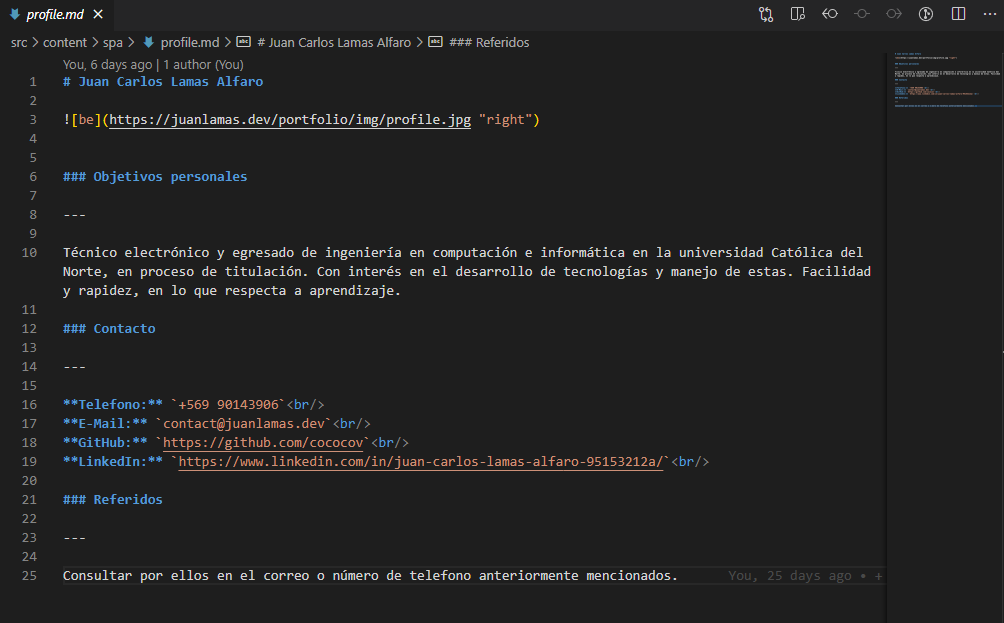
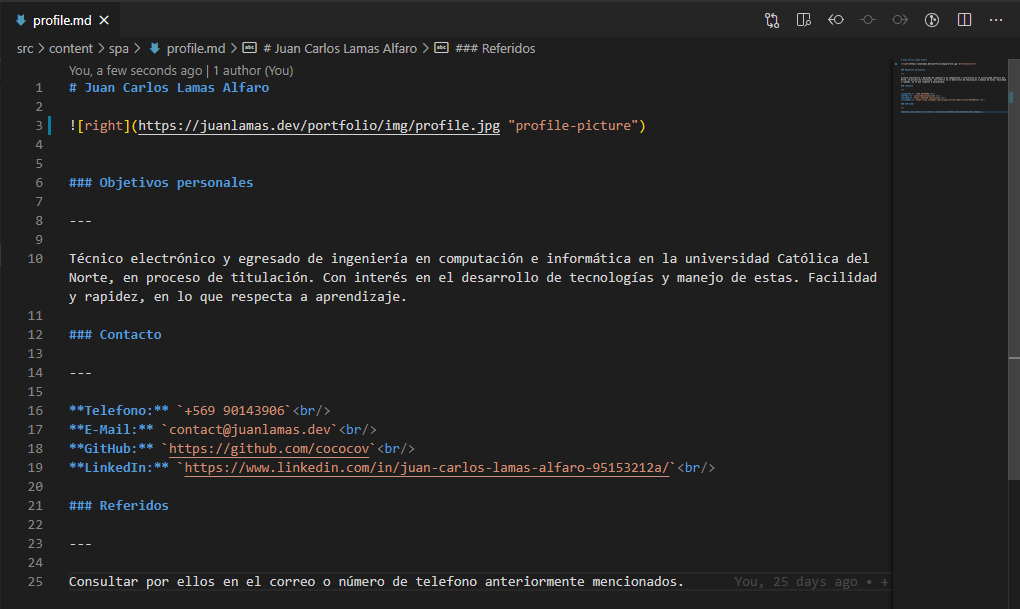
Updates

diff --git a/static/js/main.152a1f33.chunk.js b/static/js/main.152a1f33.chunk.js
@@ -1,0 +1,2 @@
+(this.webpackJsonpportfolio=this.webpackJsonpportfolio||[]).push([[0],{100:function(e,t,a){"use strict";a.r(t);var n=a(0),r=a.n(n),c=a(6),o=a.n(c),i=a(12),l=a.n(i),s=a(19),u=a(17),m=a(2),d=a(5),p="#333842",b="#282c34",f="#070709",h="#E8F3F8",g="#1d2026",x="#F36B21",j=function(){return window.innerWidth<400?window.innerWidth:window.innerWidth-310},k=a(40),E=a(51),v=a(43),w=(a(29),Object(d.a)((function(e){return{tab:{height:35,padding:0,paddingLeft:10,paddingRight:20,marginTop:-30,color:h,backgroundColor:b,cursor:"pointer"},selected:{height:35,padding:0,paddingLeft:10,paddingRight:20,marginTop:-30,color:h,backgroundColor:f,cursor:"pointer"}}}))((function(e){var t=e.ico,a=e.text,n=e.index,c=e.classes,o=e.selected,i=e.handleClick;return r.a.createElement("div",{className:Object(m.a)("",o?c.selected:c.tab),onClick:function(){return i(n)}},r.a.createElement(v.a,{className:Object(m.a)("text-left align-middle mt-1 ml-2"),variant:"inherit"},t,a))}))),O=Object(n.memo)(w),N=a(124),C=a(125),y=a(126),S=a(127),L=a(128),A=a(129),T=a(71),I=a(57),R=Object(n.createContext)(),P=function(e){var t=e.children,a=Object(n.useState)(0),c=Object(u.a)(a,2),o=c[0],i=c[1],l=Object(n.useState)(!1),s=Object(u.a)(l,2),m=s[0],d=s[1],p=Object(n.useState)(""),b=Object(u.a)(p,2),f=b[0],h=b[1],g=Object(n.useCallback)((function(e){i(4),h(e)}),[]),x=Object(n.useCallback)((function(e){i(e)}),[]),j=Object(n.useCallback)((function(){d(!0)}),[]),k=Object(n.useCallback)((function(){d(!1)}),[]);return r.a.createElement(R.Provider,{value:{selectedTab:o,isAboutOpen:m,selectedProject:f,handleChangeTab:x,handleClickAbout:j,handleCloseAbout:k,handleChangeProject:g}},t)},M=R,W=a(74),B=a(58),D=a.n(B),H=a(59),J=a.n(H),F=a(60),z=a.n(F),_=a(61),G=a.n(_),q=a(62),Q=a.n(q),U=a(63),V=a.n(U),X=a(64),Y=a.n(X),$=a(65),K=a.n($),Z=a(66),ee=a.n(Z),te=a(67),ae=a.n(te),ne=Object(n.createContext)(),re=function(){var e=Object(s.a)(l.a.mark((function e(t,a,n,r){var c,o,i;return l.a.wrap((function(e){for(;;)switch(e.prev=e.next){case 0:if(4===t||!n[t]){e.next=2;break}return e.abrupt("return",!1);case 2:if(4!==t||!n[t][a]){e.next=4;break}return e.abrupt("return",!1);case 4:return e.next=6,ce(t,a);case 6:return c=e.sent,e.next=9,c.text();case 9:o=e.sent,i=Object(W.a)(n),4!==t?i[t]=o:4===t&&(i[t][a]=o),r(i);case 13:case"end":return e.stop()}}),e)})));return function(t,a,n,r){return e.apply(this,arguments)}}(),ce=function(){var e=Object(s.a)(l.a.mark((function e(t,a){var n;return l.a.wrap((function(e){for(;;)switch(e.prev=e.next){case 0:n=null,e.t0=t,e.next=0===e.t0?4:1===e.t0?8:2===e.t0?12:3===e.t0?16:4===e.t0?20:22;break;case 4:return e.next=6,fetch(D.a);case 6:return n=e.sent,e.abrupt("break",25);case 8:return e.next=10,fetch(z.a);case 10:return n=e.sent,e.abrupt("break",25);case 12:return e.next=14,fetch(J.a);case 14:return n=e.sent,e.abrupt("break",25);case 16:return e.next=18,fetch(G.a);case 18:return n=e.sent,e.abrupt("break",25);case 20:return n=oe(a),e.abrupt("break",25);case 22:return e.next=24,fetch(ae.a);case 24:n=e.sent;case 25:return e.abrupt("return",n);case 26:case"end":return e.stop()}}),e)})));return function(t,a){return e.apply(this,arguments)}}(),oe=function(){var e=Object(s.a)(l.a.mark((function e(t){var a;return l.a.wrap((function(e){for(;;)switch(e.prev=e.next){case 0:a=null,e.t0=t,e.next="portfolio.jsx"===e.t0?4:"user-crud.jsx"===e.t0?8:"magiclife.jsx"===e.t0?12:"minesweeper.java"===e.t0?16:"rest-alarm.js"===e.t0?20:24;break;case 4:return e.next=6,fetch(V.a);case 6:return a=e.sent,e.abrupt("break",27);case 8:return e.next=10,fetch(Q.a);case 10:return a=e.sent,e.abrupt("break",27);case 12:return e.next=14,fetch(K.a);case 14:return a=e.sent,e.abrupt("break",27);case 16:return e.next=18,fetch(ee.a);case 18:return a=e.sent,e.abrupt("break",27);case 20:return e.next=22,fetch(Y.a);case 22:return a=e.sent,e.abrupt("break",27);case 24:return e.next=26,fetch(ae.a);case 26:a=e.sent;case 27:return e.abrupt("return",a);case 28:case"end":return e.stop()}}),e)})));return function(t){return e.apply(this,arguments)}}(),ie=function(e){var t=e.children,a=Object(n.useState)(["","","","",{}]),c=Object(u.a)(a,2),o=c[0],i=c[1],m=Object(n.useState)(""),d=Object(u.a)(m,2),p=d[0],b=d[1],f=Object(n.useContext)(M),h=f.selectedTab,g=f.selectedProject;return Object(n.useEffect)((function(){(function(){var e=Object(s.a)(l.a.mark((function e(){var t;return l.a.wrap((function(e){for(;;)switch(e.prev=e.next){case 0:return e.next=2,re(h,g,o,i);case 2:t=4===h&&o[h][g]?o[h][g]:o[h],b(t);case 4:case"end":return e.stop()}}),e)})));return function(){return e.apply(this,arguments)}})()()}),[h,g,o]),r.a.createElement(ne.Provider,{value:{content:o,selectedContent:p}},t)},le=ne,se=Object(d.a)((function(e){return{headerContainer:{display:"flex",flexDirection:"column",marginLeft:"auto"},header:{flexShrink:0,height:35,backgroundColor:b},subHeader:{flexShrink:0,height:25,backgroundColor:g}}}))((function(e){var t=e.width,a=e.classes,c=Object(n.useContext)(M),o=c.selectedTab,i=c.selectedProject,l=c.handleChangeTab;return r.a.createElement("div",{className:Object(m.a)("headerContainer",a.headerContainer),style:{width:t}},r.a.createElement(N.a,{className:Object(m.a)("header",a.header),position:"sticky"},r.a.createElement(C.a,{className:"pl-0"},r.a.createElement(O,{index:0,text:t>730?"Profile":"",selected:0===o,className:"border border-dark",handleClick:l,ico:Object(n.useMemo)((function(){return r.a.createElement(y.a,{className:"mr-2"})}),[])}),r.a.createElement(O,{index:1,text:t>730?"Experience":"",selected:1===o,className:"border border-dark",handleClick:l,ico:Object(n.useMemo)((function(){return r.a.createElement(S.a,{className:"mr-2"})}),[])}),r.a.createElement(O,{index:2,text:t>730?"Education":"",selected:2===o,className:"border border-dark",handleClick:l,ico:Object(n.useMemo)((function(){return r.a.createElement(L.a,{className:"mr-2"})}),[])}),r.a.createElement(O,{index:3,text:t>730?"Skills":"",selected:3===o,className:"border border-dark",handleClick:l,ico:Object(n.useMemo)((function(){return r.a.createElement(A.a,{className:"mr-2"})}),[])}),function(){if(i)return r.a.createElement(O,{index:4,text:t>730?I[i].name:"",selected:4===o,className:"border border-dark",handleClick:l,ico:r.a.createElement(T.a,{className:"mr-2 fa-lg",icon:["fab",I[i].ico]})})}())),r.a.createElement(N.a,{className:Object(m.a)("subHeader",a.subHeader),position:"sticky"},r.a.createElement(v.a,{variant:"caption",className:Object(m.a)("m-1 ml-3")},"src ",">"," portfolio ",">"," ",function(){switch(o){case 0:return"Profile";case 1:return"Experience";case 2:return"Education";case 3:return"Skills";default:return"Projects > ".concat(I[i].name)}}())))})),ue=Object(n.memo)(se),me=a(152),de=a(130),pe=a(131),be=a(132),fe=a(134),he=a(135),ge=a(136),xe=a(133),je=a(137),ke=a(138),Ee=a(28),ve=Object(d.a)((function(e){return{modal:{display:"flex",alignItems:"center",justifyContent:"center"},card:{color:h,backgroundColor:p,padding:5,outline:"none"},icon:{color:h,"&:focus":{outline:"none"}},close:{"&:focus":{outline:"none"}},item:{flex:2},copyright:{flex:1},mail:{flex:6,marginBottom:"2rem"},lineContainer:{display:"flex",alignItems:"flex-start"}}}))((function(e){var t=e.classes,a=Object(n.useContext)(M),c=a.isAboutOpen,o=a.handleCloseAbout,i=function(){var e=Object(s.a)(l.a.mark((function e(t){var a;return l.a.wrap((function(e){for(;;)switch(e.prev=e.next){case 0:a=null,e.t0=t,e.next="linkedin"===e.t0?4:"github"===e.t0?6:8;break;case 4:return a=Ee.c,e.abrupt("break",8);case 6:return a=Ee.b,e.abrupt("break",8);case 8:(a?window.open(a,"_blank"):window).focus();case 10:case"end":return e.stop()}}),e)})));return function(t){return e.apply(this,arguments)}}();return Object(n.useMemo)((function(){return r.a.createElement(me.a,{open:c,onClose:o,className:t.modal,disableAutoFocus:!0,disableEnforceFocus:!0},r.a.createElement(de.a,{className:t.card},r.a.createElement(pe.a,{title:"About",action:r.a.createElement(be.a,{className:t.close,onClick:o},r.a.createElement(xe.a,null))}),r.a.createElement(fe.a,null),r.a.createElement(he.a,null,r.a.createElement("div",{className:t.lineContainer},r.a.createElement(v.a,{variant:"body1",className:t.item},"E-mail:"),r.a.createElement(v.a,{component:"code",className:t.mail},"jclamas.95@gmail.com")),r.a.createElement("div",{className:t.lineContainer},r.a.createElement(v.a,{variant:"body1",className:t.copyright},"\xa9 Juan Carlos Lamas Alfaro. All rights reserved."))),r.a.createElement(ge.a,null,r.a.createElement(be.a,{className:t.icon,onClick:function(){return i("linkedin")}},r.a.createElement(je.a,null)),r.a.createElement(be.a,{className:t.icon,onClick:function(){return i("github")}},r.a.createElement(ke.a,null)))))}),[t,c,o])})),we=a(154),Oe=a(151),Ne=a(141),Ce=a(157),ye=a(139),Se=a(140),Le=Object(d.a)((function(e){return{drawer:{width:250,flexShrink:0},drawerPaper:{left:60,boxShadow:"1px 1px 1px rgba(0, 0, 0, 0.16), 1px 1px 1px rgba(0, 0, 0, 0.23)",backgroundColor:p,color:h,width:250},list:{textAlign:"left"},listItem:{"&:hover":{backgroundColor:f}},category:{boxShadow:"2px 2px 2px rgba(0, 0, 0, 0.16), 2px 2px 2px rgba(0, 0, 0, 0.23)",backgroundColor:p,color:h,height:30},nestedList:{width:230,marginLeft:20},nestedItem:{"&:hover":{backgroundColor:p}},box:{backgroundColor:b,color:h,paddingLeft:10,flexShrink:0},projects:{backgroundColor:b,color:h,flexShrink:0,height:"87%"},selectedItem:{backgroundColor:p}}}))((function(e){var t=e.classes,a=Object(n.useState)(!0),c=Object(u.a)(a,1)[0],o=Object(n.useContext)(M),i=o.selectedProject,l=o.handleChangeProject;return Object(n.useMemo)((function(){return r.a.createElement("div",{className:t.list,role:"presentation"},r.a.createElement(we.a,{open:c,anchor:"left",variant:"persistent",className:t.drawer,classes:{paper:Object(m.a)("Content",t.drawerPaper)}},r.a.createElement(Oe.a,{component:"span",className:t.box},r.a.createElement(v.a,{variant:"caption",className:Object(m.a)("p-0 mb-0 mt-0","ml-3")},"EXPLORER")),r.a.createElement("div",{className:Object(m.a)(t.category,"form-inline ml-3","p-0 mb-0 mt-0")},c?r.a.createElement(ye.a,null):r.a.createElement(Se.a,null),r.a.createElement(v.a,{className:Object(m.a)("ml-2","p-0 mb-0 mt-0")},"PROJECTS")),r.a.createElement(Oe.a,{component:"span",className:t.projects},r.a.createElement(Ne.a,{component:"nav",className:t.list},Object.keys(I).map((function(e,a){return r.a.createElement(Ce.a,{key:a,className:e===i?t.selectedItem:"",button:!0,onClick:function(){l(e)}},r.a.createElement(v.a,null,I[e].name))}))))))}),[t,c,i,l])})),Ae=Object(n.memo)(Le),Te=a(72),Ie=a(75),Re=a(142),Pe=a(76),Me=a(143),We=a(144),Be=a(145),De=a(146),He=a(147),Je=function(e){var t=e.children,a=e.className;return r.a.createElement("h1",{className:a},t)},Fe=function(e){var t=e.children,a=e.className;return r.a.createElement("h2",{className:a},t)},ze=function(e){var t=e.children,a=e.className;return r.a.createElement("h3",{className:a},t)},_e=function(e){var t=e.className;return r.a.createElement("hr",{className:t})},Ge=function(e){var t=e.children,a=e.className;return r.a.createElement("p",{className:a},t)},qe=function(e){var t=e.children,a=e.className;return r.a.createElement("ul",{className:a},t)},Qe=function(e){var t=e.children,a=e.className;return r.a.createElement("pre",{className:a},t)},Ue=function(e){var t=e.src,a=e.className,n=e.title,c=e.alt,o=e.classNameRight,i=e.classNameContent;return r.a.createElement("img",{src:t,alt:n,className:Object(m.a)(a,"content"===c?i:"","right"===c?o:"")})},Ve=function(e){var t=e.children,a=e.classes,n=t[0],c=t[1],o=n.props.children.props.children,i=c.props.children,l=[],s={},u=[];return o.map((function(e,t){return l[t]=e.props.children[0],s[l[t]]="",!0})),i.map((function(e,t){var a=e.props.children,n=Object(Ie.a)({},s);return Object.keys(s).map((function(e,t){return n[e]=a[t].props.children[0]})),u[t]=n,!0})),r.a.createElement(Re.a,{className:a.tableContainer,component:Pe.a},r.a.createElement(Me.a,{className:a.table,"aria-label":"simple table"},r.a.createElement(We.a,null,r.a.createElement(Be.a,{className:a.tableTitleBar},l.map((function(e,t){return r.a.createElement(De.a,{key:t,className:a.tableTitle},e)})))),r.a.createElement(He.a,null,u.map((function(e,t){return r.a.createElement(Be.a,{key:t,className:a.tableRow},Object.keys(e).map((function(t,n){return r.a.createElement(De.a,{scope:"row",key:"".concat(t,"-").concat(n),className:a.tableData},e[t])})))})))))},Xe=function(e){return{overrides:{h1:{component:Je,props:{className:e.h1}},h2:{component:Fe,props:{className:e.h2}},h3:{component:ze,props:{className:e.h3}},hr:{component:_e,props:{className:e.hr}},p:{component:Ge,props:{className:e.p}},ul:{component:qe,props:{className:e.ul}},pre:{component:Qe,props:{className:e.pre}},img:{component:Ue,props:{className:e.img,classNameRight:e.imgRight,classNameContent:e.imgContent}},table:{component:Ve,props:{classes:e}}}}},Ye=(a(97),Object(d.a)((function(e){return{container:{display:"flex",flexDirection:"row",height:"100vh",marginLeft:"auto"},content:{flex:1,color:h,overflowY:"scroll",paddingLeft:20,fontFamily:'"Roboto", "Helvetica", "Arial", sans-serif',paddingBottom:60},h1:{textAlign:"center",paddingTop:10,paddingBottom:10},h2:{paddingTop:5,paddingBottom:5},h3:{paddingTop:5,paddingBottom:5},hr:{backgroundColor:p,maxWidth:"50%",marginRight:"50%"},p:{fontSize:"1rem",padding:10},ul:{fontSize:"1rem",marginLeft:20},pre:{fontSize:"1rem",marginLeft:20,backgroundColor:p,padding:10,paddingLeft:15,paddingRight:15,maxWidth:"80%",width:"min-content",color:x},img:{borderRadius:4,maxWidth:250,maxHeigh:250},imgRight:{float:"right",marginRight:"5%",marginLeft:"5%",marginTop:30},imgContent:{maxWidth:"80%"},tableContainer:{width:"fit-content",maxWidth:"90%",marginLeft:"5%",backgroundColor:p},table:{width:"fit-content"},tableTitleBar:{},tableTitle:{color:h},tableRow:{},tableData:{color:h,minWidth:120}}}))((function(e){var t=e.classes,a=e.width,c=Object(n.useContext)(le).selectedContent;return Object(n.useMemo)((function(){return r.a.createElement("div",{style:{width:a},className:Object(m.a)("Container",t.container)},r.a.createElement("div",{className:Object(m.a)("Content",t.content)},r.a.createElement(Te.a,{options:Xe(t)},c)))}),[t,a,c])}))),$e=Object(n.memo)(Ye),Ke=a(148),Ze=Object(d.a)((function(e){return{drawer:{width:60,flexShrink:0},drawerPaper:{boxShadow:"1px 1px 1px rgba(0, 0, 0, 0.16), 1px 1px 1px rgba(0, 0, 0, 0.23)",backgroundColor:p,color:h,width:60},list:{width:250,textAlign:"left"},listInside:{flex:1,display:"flex",flexDirection:"column"},listItem:{"&:hover":{backgroundColor:f}},nestedList:{width:40,marginLeft:20},nestedItem:{"&:hover":{backgroundColor:p}},lateralIcon:{height:40,width:40,marginLeft:-5,marginTop:3,padding:0,justifyContent:"center"},about:{display:"flex",flexGrow:"inherit",justifyContent:"flex-end",textAlign:"center",flexDirection:"column"},aboutText:{marginLeft:"-0.5rem"}}}))((function(e){var t=e.classes,a=Object(n.useContext)(M).handleClickAbout,c=function(){var e=Object(s.a)(l.a.mark((function e(t){var a;return l.a.wrap((function(e){for(;;)switch(e.prev=e.next){case 0:a=null,e.t0=t,e.next="download"===e.t0?4:"linkedin"===e.t0?6:"github"===e.t0?8:10;break;case 4:return a="".concat("/portfolio").concat(Ee.a),e.abrupt("break",10);case 6:return a=Ee.c,e.abrupt("break",10);case 8:return a=Ee.b,e.abrupt("break",10);case 10:(a?window.open(a,"_blank"):window).focus();case 12:case"end":return e.stop()}}),e)})));return function(t){return e.apply(this,arguments)}}();return Object(n.useMemo)((function(){return r.a.createElement("div",{className:t.list,role:"presentation"},r.a.createElement(we.a,{className:t.drawer,variant:"persistent",anchor:"left",open:!0,classes:{paper:Object(m.a)("Content",t.drawerPaper)}},r.a.createElement(Ne.a,{className:t.listInside},r.a.createElement(Ce.a,{button:!0,key:"Download",title:"Download CV",onClick:function(){return c("download")}},r.a.createElement(Ke.a,{className:t.lateralIcon})),r.a.createElement(Ce.a,{button:!0,key:"LinkedIn",title:"LinkedIn",onClick:function(){return c("linkedin")}},r.a.createElement(je.a,{className:t.lateralIcon})),r.a.createElement(Ce.a,{button:!0,key:"GitHub",title:"GitHub",onClick:function(){return c("github")}},r.a.createElement(ke.a,{className:t.lateralIcon})),r.a.createElement("div",{className:t.about},r.a.createElement(Ce.a,{button:!0,key:"About",title:"About",onClick:a},r.a.createElement(v.a,{className:t.aboutText},"About"))))))}),[t,a])})),et=Object(n.memo)(Ze),tt=a(155),at=a(153),nt=a(149),rt=function(){var e=Object(n.useState)(!0),t=Object(u.a)(e,2),a=t[0],c=t[1];return r.a.createElement(tt.a,{autoHideDuration:8e3,key:"underConstructionSnackbar",open:a,onClose:function(){c(!1)},anchorOrigin:{vertical:"top",horizontal:"center"}},r.a.createElement(at.a,{severity:"info"},r.a.createElement(nt.a,null,"Informaci\xf3n"),"Esta p\xe1gina a\xfan est\xe1 en construcci\xf3n, por lo que puede haber secciones sin contenido o con contenido a la mitad."))},ct=(a(98),Object(d.a)({app:{minWidth:"100%",position:"absolute",overflow:"hidden"},content:{padding:10}})((function(e){var t=e.classes,a=Object(n.useState)((function(){return j()})),c=Object(u.a)(a,2),o=c[0],i=c[1];Object(n.useEffect)((function(){k.b.add([E.a,E.c,E.b])})),Object(n.useEffect)((function(){window.addEventListener("resize",d),d()}),[]);var d=function(){var e=Object(s.a)(l.a.mark((function e(){return l.a.wrap((function(e){for(;;)switch(e.prev=e.next){case 0:i(j());case 1:case"end":return e.stop()}}),e)})));return function(){return e.apply(this,arguments)}}();return r.a.createElement(P,null,r.a.createElement(rt,null),r.a.createElement(ve,null),r.a.createElement(ue,{width:o}),r.a.createElement("div",{className:Object(m.a)("App",t.app)},r.a.createElement(et,null),r.a.createElement(Ae,null),r.a.createElement(ie,null,r.a.createElement($e,{width:o}))))})));Boolean("localhost"===window.location.hostname||"[::1]"===window.location.hostname||window.location.hostname.match(/^127(?:\.(?:25[0-5]|2[0-4][0-9]|[01]?[0-9][0-9]?)){3}$/));a(99);o.a.render(r.a.createElement(n.StrictMode,null,r.a.createElement(ct,null)),document.getElementById("root")),"serviceWorker"in navigator&&navigator.serviceWorker.ready.then((function(e){e.unregister()}))},28:function(e){e.exports=JSON.parse('{"a":"/docs/cv_Juan_Lamas.pdf","c":"https://www.linkedin.com/in/juan-carlos-lamas-alfaro-95153212a/","b":"https://github.com/cococov"}')},57:function(e){e.exports=JSON.parse('{"portfolio.jsx":{"uri":"project/portfoliojsx","name":"portfolio.jsx","title":"portfolio","language":"javaScript","ico":"react"},"user-crud.jsx":{"uri":"project/usercrudjsx","name":"userCrud.jsx","title":"User CRUD - SQLite and MySQL Sync","language":"javaScript","ico":"react"},"magiclife.jsx":{"uri":"project/magiclifejsx","name":"magiclife.jsx","title":"Magic Life","language":"javaScript","ico":"react"},"rest-alarm.js":{"uri":"project/restalarmjs","name":"rest-alarm.js","title":"Rest Alarm","language":"javaScript","ico":"js-square"},"minesweeper.java":{"uri":"project/minesweepeerjava","name":"minesweeper.java","title":"Minesweeper (Buscaminas)","language":"Java","ico":"java"},"something.py":{"uri":"project/somethingpy","name":"something.py","title":"Something","language":"Something","ico":"python"}}')},58:function(e,t,a){e.exports=a.p+"static/media/profile.3cbe7f5e.md"},59:function(e,t,a){e.exports=a.p+"static/media/education.f17e8b79.md"},60:function(e,t,a){e.exports=a.p+"static/media/experience.a9782ec0.md"},61:function(e,t,a){e.exports=a.p+"static/media/skills.f1245e71.md"},62:function(e,t,a){e.exports=a.p+"static/media/usercrud.c1f7ed9d.md"},63:function(e,t,a){e.exports=a.p+"static/media/portfolio.0e1e4ce7.md"},64:function(e,t,a){e.exports=a.p+"static/media/restalarm.83dbd42c.md"},65:function(e,t,a){e.exports=a.p+"static/media/magiclife.7ac4bd4e.md"},66:function(e,t,a){e.exports=a.p+"static/media/minesweeper.0c225492.md"},67:function(e,t,a){e.exports=a.p+"static/media/error404.c361ca1d.md"},84:function(e,t,a){e.exports=a(100)},97:function(e,t,a){},98:function(e,t,a){},99:function(e,t,a){}},[[84,1,2]]]);
+//# sourceMappingURL=main.152a1f33.chunk.js.map

diff --git a/index.html b/index.html
@@ -1,1 +1,1 @@
-<!doctype html><html lang="en"><head><meta charset="utf-8"/><link rel="shortcut icon" href="/portfolio/favicon.ico"/><meta name="viewport" content="width=device-width,initial-scale=1"/><meta name="theme-color" content="#000000"/><meta property="og:image" content="/portfolio/img/portfoliopreview.png"><meta name="description" content="Portafolio profesional, para demostrar mis habilidades como desarrollador, en donde emulando la interfaz gráfica de VsCode muestro una serie de proyectos personales, además de mi información de contacto, educación y experiencia."/><meta name="keywords" content="Juan, Carlos, Lamas, Alfaro, React, Portfolio, Portafolio"><meta name="author" content="Juan Carlos Lamas Alfaro"><link rel="apple-touch-icon" href="logo192.png"/><link rel="manifest" href="/portfolio/manifest.json"/><title>Juan Carlos Lamas Alfaro</title><link href="https://fonts.googleapis.com/css?family=Roboto:300,400,500,700&display=swap"/><link href="https://fonts.googleapis.com/icon?family=Material+Icons"/><link href="/css/bootstrap.min.css"/><link href="/fontawesome/css/all.min.css"/><link href="/portfolio/static/css/2.af3c1da9.chunk.css" rel="stylesheet"><link href="/portfolio/static/css/main.35229cc0.chunk.css" rel="stylesheet"></head><body style="background-color:#1d2026"><noscript><div class="App jss1" style="background-color:#1d2026;color:#e8f3f8"><div class="Container jss140"><div class="Content jss141"><div><h1 class="jss142" style="text-align:center">Juan Carlos Lamas Alfaro</h1><p class="jss146" style="text-align:center"><img src="/portfolio/img/profile.jpg" alt="profile" class="jss150 jss149"></p><h3 class="jss144">Objetivos personales</h3><hr class="jss145"><p class="jss146">Técnico electrónico y actual estudiante de ingeniería en computación e informática en la universidad Católica del Norte, en proceso de titulación. Con interés en el desarrollo de tecnologías y manejo de estas. Facilidad y rapidez, en lo que respecta a aprendizaje.</p><h3 class="jss144">Contacto</h3><hr class="jss145"><p class="jss146"><strong>Telefono:</strong> <code>+569 90143906</code><br><strong>E-Mail:</strong> <code>jclamas.95@gmail.com</code><br><strong>GitHub:</strong> <code>https://github.com/cococov</code><br><strong>LinkedIn:</strong> <code>https://www.linkedin.com/in/juan-carlos-lamas-alfaro-95153212a/</code><br></p></div><div style="text-align:-webkit-center"><div style="background-color:red;width:fit-content;padding:1rem;color:#0b0004"><h1>¡ALERTA!</h1><h2>Necesitas JavaScript para ver el contenido de esta página</h2></div><p>© Juan Carlos Lamas Alfaro. All rights reserved.</p><p></p></div></div></div></div></noscript><div id="root"></div><script>!function(e){function r(r){for(var n,l,f=r[0],i=r[1],p=r[2],c=0,s=[];c<f.length;c++)l=f[c],Object.prototype.hasOwnProperty.call(o,l)&&o[l]&&s.push(o[l][0]),o[l]=0;for(n in i)Object.prototype.hasOwnProperty.call(i,n)&&(e[n]=i[n]);for(a&&a(r);s.length;)s.shift()();return u.push.apply(u,p||[]),t()}function t(){for(var e,r=0;r<u.length;r++){for(var t=u[r],n=!0,f=1;f<t.length;f++){var i=t[f];0!==o[i]&&(n=!1)}n&&(u.splice(r--,1),e=l(l.s=t[0]))}return e}var n={},o={1:0},u=[];function l(r){if(n[r])return n[r].exports;var t=n[r]={i:r,l:!1,exports:{}};return e[r].call(t.exports,t,t.exports,l),t.l=!0,t.exports}l.m=e,l.c=n,l.d=function(e,r,t){l.o(e,r)||Object.defineProperty(e,r,{enumerable:!0,get:t})},l.r=function(e){"undefined"!=typeof Symbol&&Symbol.toStringTag&&Object.defineProperty(e,Symbol.toStringTag,{value:"Module"}),Object.defineProperty(e,"__esModule",{value:!0})},l.t=function(e,r){if(1&r&&(e=l(e)),8&r)return e;if(4&r&&"object"==typeof e&&e&&e.__esModule)return e;var t=Object.create(null);if(l.r(t),Object.defineProperty(t,"default",{enumerable:!0,value:e}),2&r&&"string"!=typeof e)for(var n in e)l.d(t,n,function(r){return e[r]}.bind(null,n));return t},l.n=function(e){var r=e&&e.__esModule?function(){return e.default}:function(){return e};return l.d(r,"a",r),r},l.o=function(e,r){return Object.prototype.hasOwnProperty.call(e,r)},l.p="/portfolio/";var f=this.webpackJsonpportfolio=this.webpackJsonpportfolio||[],i=f.push.bind(f);f.push=r,f=f.slice();for(var p=0;p<f.length;p++)r(f[p]);var a=i;t()}([])</script><script src="/portfolio/static/js/2.4a1aed06.chunk.js"></script><script src="/portfolio/static/js/main.5f57ab37.chunk.js"></script></body></html>
+<!doctype html><html lang="en"><head><meta charset="utf-8"/><link rel="shortcut icon" href="/portfolio/favicon.ico"/><meta name="viewport" content="width=device-width,initial-scale=1"/><meta name="theme-color" content="#000000"/><meta property="og:image" content="/portfolio/img/portfoliopreview.png"><meta name="description" content="Portafolio profesional, para demostrar mis habilidades como desarrollador, en donde emulando la interfaz gráfica de VsCode muestro una serie de proyectos personales, además de mi información de contacto, educación y experiencia."/><meta name="keywords" content="Juan, Carlos, Lamas, Alfaro, React, Portfolio, Portafolio"><meta name="author" content="Juan Carlos Lamas Alfaro"><link rel="apple-touch-icon" href="logo192.png"/><link rel="manifest" href="/portfolio/manifest.json"/><title>Juan Carlos Lamas Alfaro</title><link href="https://fonts.googleapis.com/css?family=Roboto:300,400,500,700&display=swap"/><link href="https://fonts.googleapis.com/icon?family=Material+Icons"/><link href="/css/bootstrap.min.css"/><link href="/fontawesome/css/all.min.css"/><link href="/portfolio/static/css/2.af3c1da9.chunk.css" rel="stylesheet"><link href="/portfolio/static/css/main.6c694089.chunk.css" rel="stylesheet"></head><body style="background-color:#1d2026"><noscript><div class="App jss1" style="background-color:#1d2026;color:#e8f3f8"><div class="Container jss140"><div class="Content jss141"><div><h1 class="jss142" style="text-align:center">Juan Carlos Lamas Alfaro</h1><p class="jss146" style="text-align:center"><img src="/portfolio/img/profile.jpg" alt="profile" class="jss150 jss149"></p><h3 class="jss144">Objetivos personales</h3><hr class="jss145"><p class="jss146">Técnico electrónico y actual estudiante de ingeniería en computación e informática en la universidad Católica del Norte, en proceso de titulación. Con interés en el desarrollo de tecnologías y manejo de estas. Facilidad y rapidez, en lo que respecta a aprendizaje.</p><h3 class="jss144">Contacto</h3><hr class="jss145"><p class="jss146"><strong>Telefono:</strong> <code>+569 90143906</code><br><strong>E-Mail:</strong> <code>jclamas.95@gmail.com</code><br><strong>GitHub:</strong> <code>https://github.com/cococov</code><br><strong>LinkedIn:</strong> <code>https://www.linkedin.com/in/juan-carlos-lamas-alfaro-95153212a/</code><br></p></div><div style="text-align:-webkit-center"><div style="background-color:red;width:fit-content;padding:1rem;color:#0b0004"><h1>¡ALERTA!</h1><h2>Necesitas JavaScript para ver el contenido de esta página</h2></div><p>© Juan Carlos Lamas Alfaro. All rights reserved.</p><p></p></div></div></div></div></noscript><div id="root"></div><script>!function(e){function r(r){for(var n,l,f=r[0],i=r[1],p=r[2],c=0,s=[];c<f.length;c++)l=f[c],Object.prototype.hasOwnProperty.call(o,l)&&o[l]&&s.push(o[l][0]),o[l]=0;for(n in i)Object.prototype.hasOwnProperty.call(i,n)&&(e[n]=i[n]);for(a&&a(r);s.length;)s.shift()();return u.push.apply(u,p||[]),t()}function t(){for(var e,r=0;r<u.length;r++){for(var t=u[r],n=!0,f=1;f<t.length;f++){var i=t[f];0!==o[i]&&(n=!1)}n&&(u.splice(r--,1),e=l(l.s=t[0]))}return e}var n={},o={1:0},u=[];function l(r){if(n[r])return n[r].exports;var t=n[r]={i:r,l:!1,exports:{}};return e[r].call(t.exports,t,t.exports,l),t.l=!0,t.exports}l.m=e,l.c=n,l.d=function(e,r,t){l.o(e,r)||Object.defineProperty(e,r,{enumerable:!0,get:t})},l.r=function(e){"undefined"!=typeof Symbol&&Symbol.toStringTag&&Object.defineProperty(e,Symbol.toStringTag,{value:"Module"}),Object.defineProperty(e,"__esModule",{value:!0})},l.t=function(e,r){if(1&r&&(e=l(e)),8&r)return e;if(4&r&&"object"==typeof e&&e&&e.__esModule)return e;var t=Object.create(null);if(l.r(t),Object.defineProperty(t,"default",{enumerable:!0,value:e}),2&r&&"string"!=typeof e)for(var n in e)l.d(t,n,function(r){return e[r]}.bind(null,n));return t},l.n=function(e){var r=e&&e.__esModule?function(){return e.default}:function(){return e};return l.d(r,"a",r),r},l.o=function(e,r){return Object.prototype.hasOwnProperty.call(e,r)},l.p="/portfolio/";var f=this.webpackJsonpportfolio=this.webpackJsonpportfolio||[],i=f.push.bind(f);f.push=r,f=f.slice();for(var p=0;p<f.length;p++)r(f[p]);var a=i;t()}([])</script><script src="/portfolio/static/js/2.4a1aed06.chunk.js"></script><script src="/portfolio/static/js/main.152a1f33.chunk.js"></script></body></html>

diff --git a/precache-manifest.95a58dd8aaabd1fd369c5806c383ec4d.js b/precache-manifest.95a58dd8aaabd1fd369c5806c383ec4d.js
@@ -1,6 +1,6 @@
 self.__precacheManifest = (self.__precacheManifest || []).concat([
   {
-    "revision": "37012b1b1fe2b8bbc86659d01b200704",
+    "revision": "fc3d7fb2464cf32366f6e6caaf7a6dc6",
     "url": "/portfolio/index.html"
   },
   {
@@ -8,8 +8,8 @@ self.__precacheManifest = (self.__precacheManifest || []).concat([
     "url": "/portfolio/static/css/2.af3c1da9.chunk.css"
   },
   {
-    "revision": "37cbd5fb04068935b677",
-    "url": "/portfolio/static/css/main.35229cc0.chunk.css"
+    "revision": "82caa4e5fa5e2f68bb90",
+    "url": "/portfolio/static/css/main.6c694089.chunk.css"
   },
   {
     "revision": "5a27b75e86179168ba5c",
@@ -20,16 +20,16 @@ self.__precacheManifest = (self.__precacheManifest || []).concat([
     "url": "/portfolio/static/js/2.4a1aed06.chunk.js.LICENSE.txt"
   },
   {
-    "revision": "37cbd5fb04068935b677",
-    "url": "/portfolio/static/js/main.5f57ab37.chunk.js"
+    "revision": "82caa4e5fa5e2f68bb90",
+    "url": "/portfolio/static/js/main.152a1f33.chunk.js"
   },
   {
     "revision": "88fbd3d397ae3690d5f2",
     "url": "/portfolio/static/js/runtime-main.fb1b3dac.js"
   },
   {
-    "revision": "107244b6ad89832ee7a15e1884948aec",
-    "url": "/portfolio/static/media/education.107244b6.md"
+    "revision": "f17e8b792a8bdaebd1a50b5b1b5806b8",
+    "url": "/portfolio/static/media/education.f17e8b79.md"
   },
   {
     "revision": "c361ca1d1fed18032962252a0c88ec64",
@@ -48,12 +48,12 @@ self.__precacheManifest = (self.__precacheManifest || []).concat([
     "url": "/portfolio/static/media/minesweeper.0c225492.md"
   },
   {
-    "revision": "f8c4ec527affb01193855f9083b50f00",
-    "url": "/portfolio/static/media/portfolio.f8c4ec52.md"
+    "revision": "0e1e4ce79509b97a0561b7c88d080a0b",
+    "url": "/portfolio/static/media/portfolio.0e1e4ce7.md"
   },
   {
-    "revision": "35361503be5d3af7c13bfd93fed61e21",
-    "url": "/portfolio/static/media/profile.35361503.md"
+    "revision": "3cbe7f5ef1e2be5ca370868e7eeb9773",
+    "url": "/portfolio/static/media/profile.3cbe7f5e.md"
   },
   {
     "revision": "83dbd42cc042f93f960b00f7215fcf55",

diff --git a/static/css/main.6c694089.chunk.css b/static/css/main.6c694089.chunk.css
@@ -1,0 +1,2 @@
+.box{background-color:#333842;max-width:60%;padding-left:1rem;padding-right:1rem;padding-top:1rem;margin-right:1rem;border-radius:4px}.box ul{margin-bottom:0!important;margin-left:0!important}.no-has-paraph{padding-bottom:1rem!important}.list-super-index{margin-bottom:-.5rem!important}.end,.img-content-div{margin-bottom:1rem}.img-content-div{text-align:center}@media (max-width:1900px){.box{max-width:80%}}@media (max-width:1500px){.box{max-width:100%}}.App{background-color:#1d2026;flex-direction:column;align-items:center;justify-content:center;font-size:calc(10px + 2vmin);color:#fff;min-height:100%;margin-bottom:-60px}body{margin:0;font-family:-apple-system,BlinkMacSystemFont,"Segoe UI","Roboto","Oxygen","Ubuntu","Cantarell","Fira Sans","Droid Sans","Helvetica Neue",sans-serif;-webkit-font-smoothing:antialiased;-moz-osx-font-smoothing:grayscale}code{font-family:source-code-pro,Menlo,Monaco,Consolas,"Courier New",monospace}html{--scrollbarBG:#1d2026;--thumbBG:#333842;overflow:hidden}.Content::-webkit-scrollbar{width:15px}.Content{scrollbar-width:thin;scrollbar-color:#333842 #1d2026;scrollbar-color:var(--thumbBG) var(--scrollbarBG)}.Content::-webkit-scrollbar-track{background:#1d2026;background:var(--scrollbarBG)}.Content::-webkit-scrollbar-thumb{background-color:#333842;background-color:var(--thumbBG);border:0 solid #1d2026;border:0 solid var(--scrollbarBG)}
+/*# sourceMappingURL=main.6c694089.chunk.css.map */

diff --git a/service-worker.js b/service-worker.js
@@ -14,7 +14,7 @@
 importScripts("https://storage.googleapis.com/workbox-cdn/releases/4.3.1/workbox-sw.js");
 
 importScripts(
-  "/portfolio/precache-manifest.6038bc627ad4a8782c6b2ae1a30bed5c.js"
+  "/portfolio/precache-manifest.95a58dd8aaabd1fd369c5806c383ec4d.js"
 );
 
 self.addEventListener('message', (event) => {

diff --git a/static/media/portfolio.0e1e4ce7.md b/static/media/portfolio.0e1e4ce7.md
@@ -1,0 +1,67 @@
+# Portafolio
+
+### Links
+
+---
+
+[Repositorio](https://github.com/cococov/portfolio)<br/>
+[Página de mi portafolio](https://juanlamas.dev/portfolio/)
+
+### Tecnologías
+
+---
+
+<div class="list-super-index">
++ Lenguajes:
+ - JavaScript
+</div>
+
+<div class="list-super-index">
++ Frameworks y Bibliotecas:
+ - React
+ - React Context
+ - Material-UI
+</div>
+
+<div class="list-super-index">
++ Otros:
+ - Markdown
+</div>
+
+### Estado
+
+---
+
+En desarrollo.
+
+### Descripción
+
+---
+
+Este es un proyecto que surgió con motivo de dar a conocer mis habilidades como programador, perfil profesional y los proyectos que he hecho de forma personal, además de alguno que haya hecho en el trabajo, del cual tenga permiso para hablar.
+
+Quería que el diseño fuera algo original y no una simple 'landing page', por lo que se me ocurrió imitar la interfaz gráfica de ``VsCode``, ya que es algo que me identifica bien como programador y lo encuentro bastante estético para este fin.
+
+El proyecto inicialmente estaba pensado ser desarrollado con ``React``, usando clases, ``bootstrap`` y ``MobX``, cosa que fue cambiando a medida que fui aprendiendo nuevas cosas y tuve tiempo para ir implementándolas. Actualmente para manejar estados estoy haciendo uso de ``React-Contex`` en vez de ``MobX`` y substituí el uso de clases por componentes funcionales y hooks, además últimamente estoy reemplazando lo que hice con ``bootstrap`` por ``CSS3`` y ``JSS``.
+
+<div class="img-content-div">
+![content](https://juanlamas.dev/portfolio/img/content/portfolio/profile.png "content-profile")
+</div>
+
+Uno de los problemas a los que me vi enfrentado, fue el cómo crear contenido de una forma dinámica y no tener que desarrollar una vista completamente nueva cada vez que requiera agregar un proyecto o sección nueva, para lo cual se me ocurrió como solución el crear un componente que interprete documentos de tipo ``Markdown`` y los renderice con los estilos utilizados en el proyecto. Esto me permitirá almacenar los documentos en una base de datos y que a medida que vaya agregando contenido, sin tocar una línea de código, este sea visible inmediatamente en la página web.
+
+<div class="img-content-div">
+![content](https://juanlamas.dev/portfolio/img/content/portfolio/profilemd.png "content-profile-md")
+</div>
+
+Para lo que es el control de versiones utilicé ``GitHub``. Además hice uso de la herramienta ``GithubPages`` para desplegar mi aplicación con un dominio personal.
+
+<div class="img-content-div">
+![content](https://juanlamas.dev/portfolio/img/content/portfolio/github.png "content-profile-github")
+</div>
+
+Para lo que es el flujo de trabajo, tareas e ideas, hice uso de la plataforma ``Trello``.
+
+<div class="img-content-div">
+![content](https://juanlamas.dev/portfolio/img/content/portfolio/trello.png "content-profile-trello")
+</div>

diff --git a/static/media/education.f17e8b79.md b/static/media/education.f17e8b79.md
@@ -2,7 +2,7 @@
 
 ---
 
-![be](https://juanlamas.dev/portfolio/img/ucn.png "right")
+![right](https://juanlamas.dev/portfolio/img/ucn.png "ucn-logo")
 
 ### 2013 - Actualidad
 
@@ -15,7 +15,7 @@ Universidad Católica del Norte.
 Técnico en electrónica.<br/>
 Escuela industrial Salesiana San Ramón.
 
-![be](https://juanlamas.dev/portfolio/img/salesianos.png "right")
+![right](https://juanlamas.dev/portfolio/img/salesianos.png "salesianos-logo")
 
 ### 2009 - 2012
 

diff --git a/static/media/profile.3cbe7f5e.md b/static/media/profile.3cbe7f5e.md
@@ -1,6 +1,6 @@
 # Juan Carlos Lamas Alfaro
 
-![be](https://juanlamas.dev/portfolio/img/profile.jpg "right")
+![right](https://juanlamas.dev/portfolio/img/profile.jpg "profile-picture")
 
 
 ### Objetivos personales
